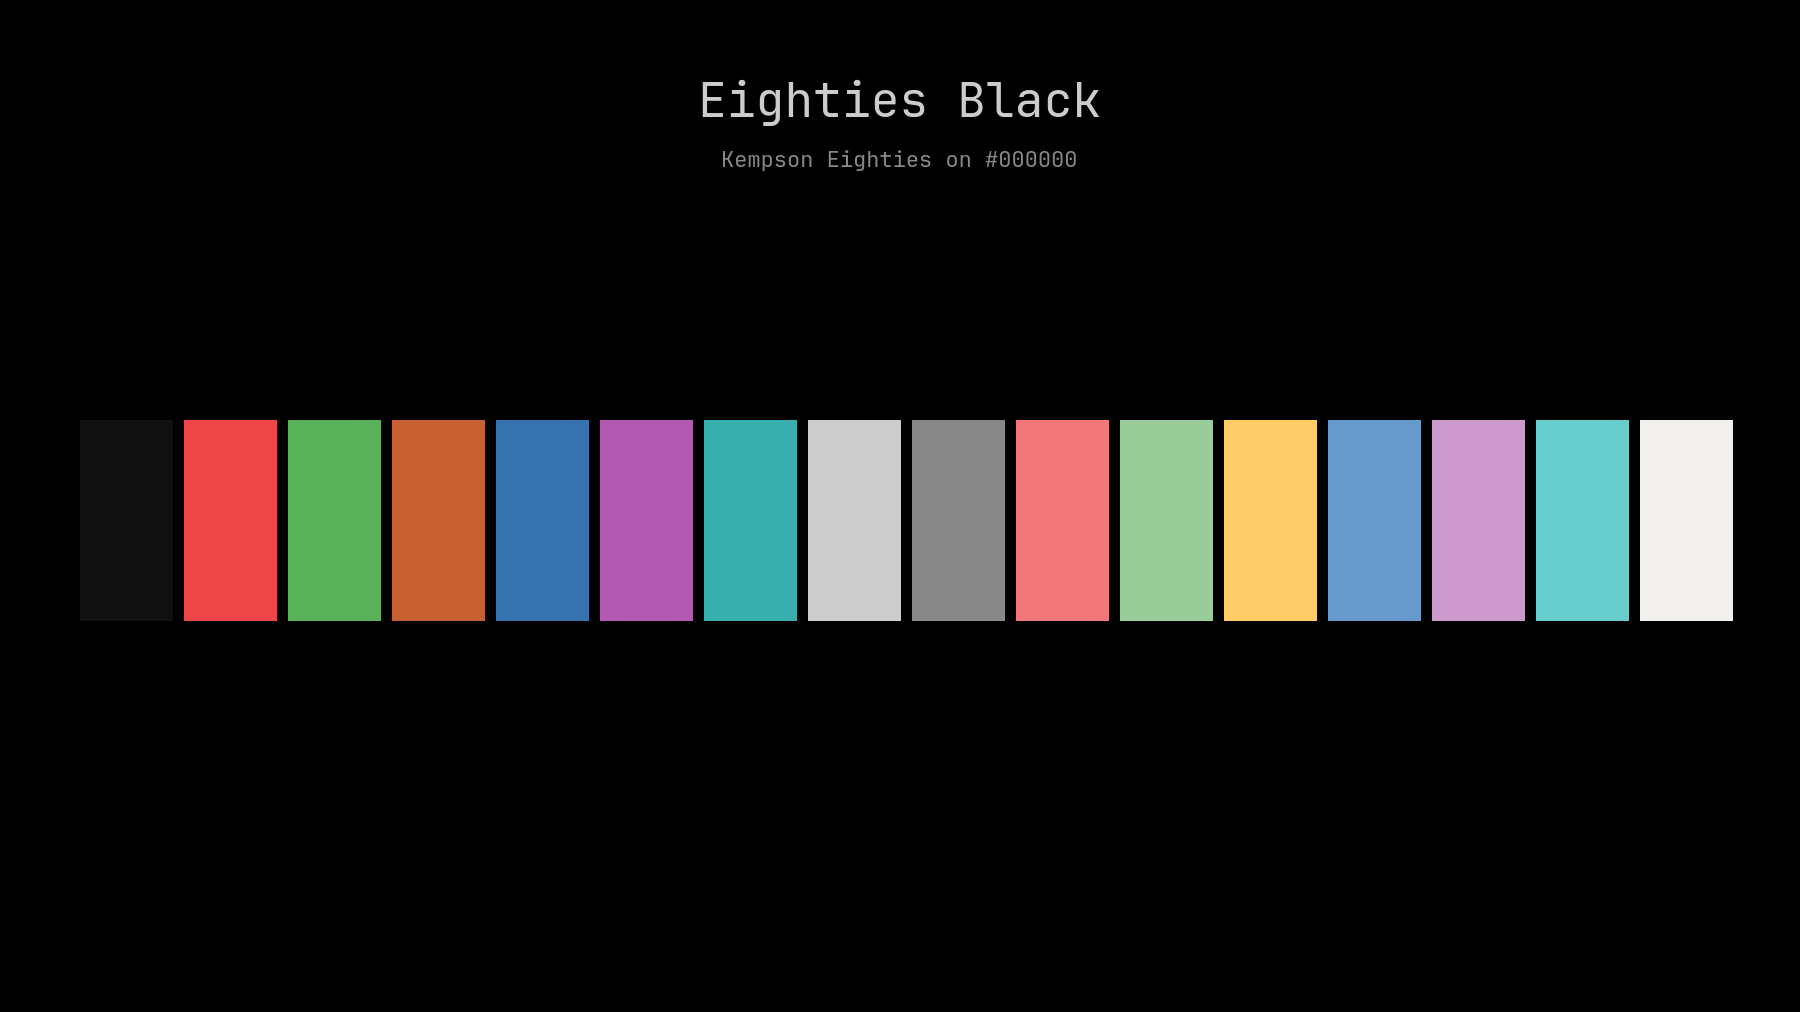
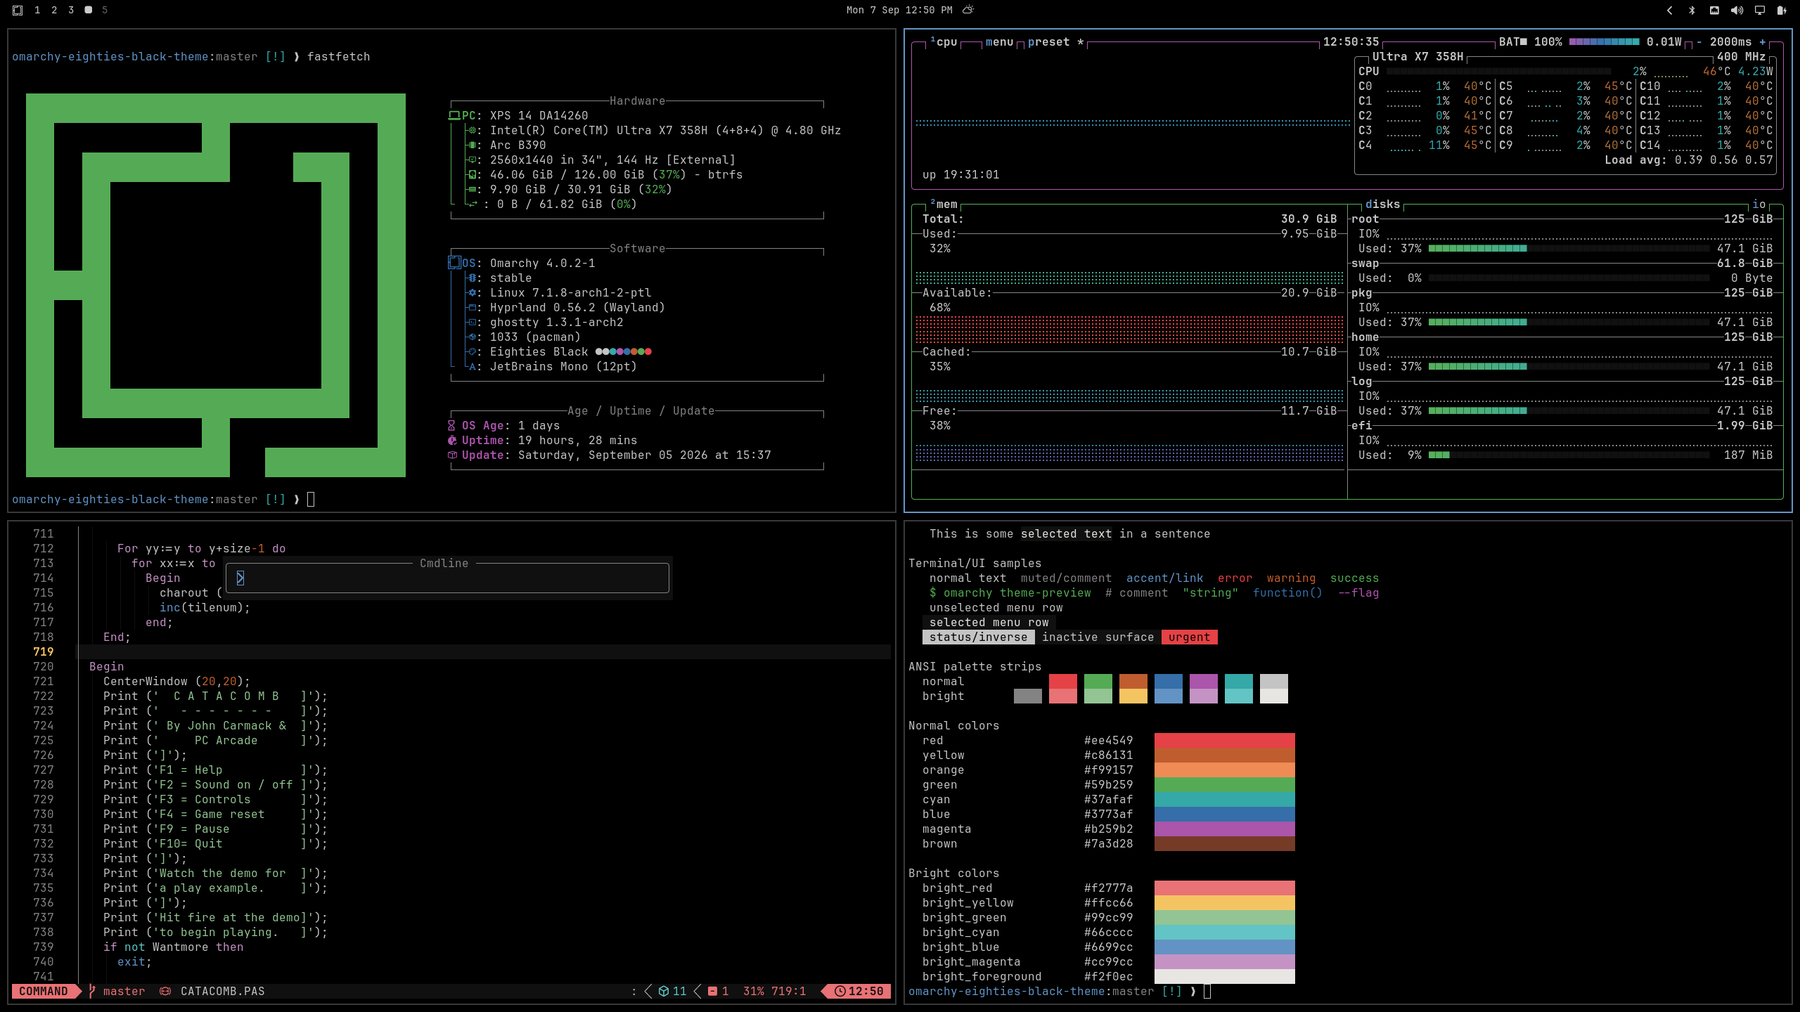
Replace the palette strip with a desktop screenshot.

diff --git a/README.md b/README.md
@@ -2,6 +2,8 @@
 
 Omarchy theme. [Chris Kempson](http://chriskempson.com)'s Eighties palette on true black (`#000000`).
 
+![Eighties Black desktop](preview.png)
+
 ## Install
 
 ```bash
